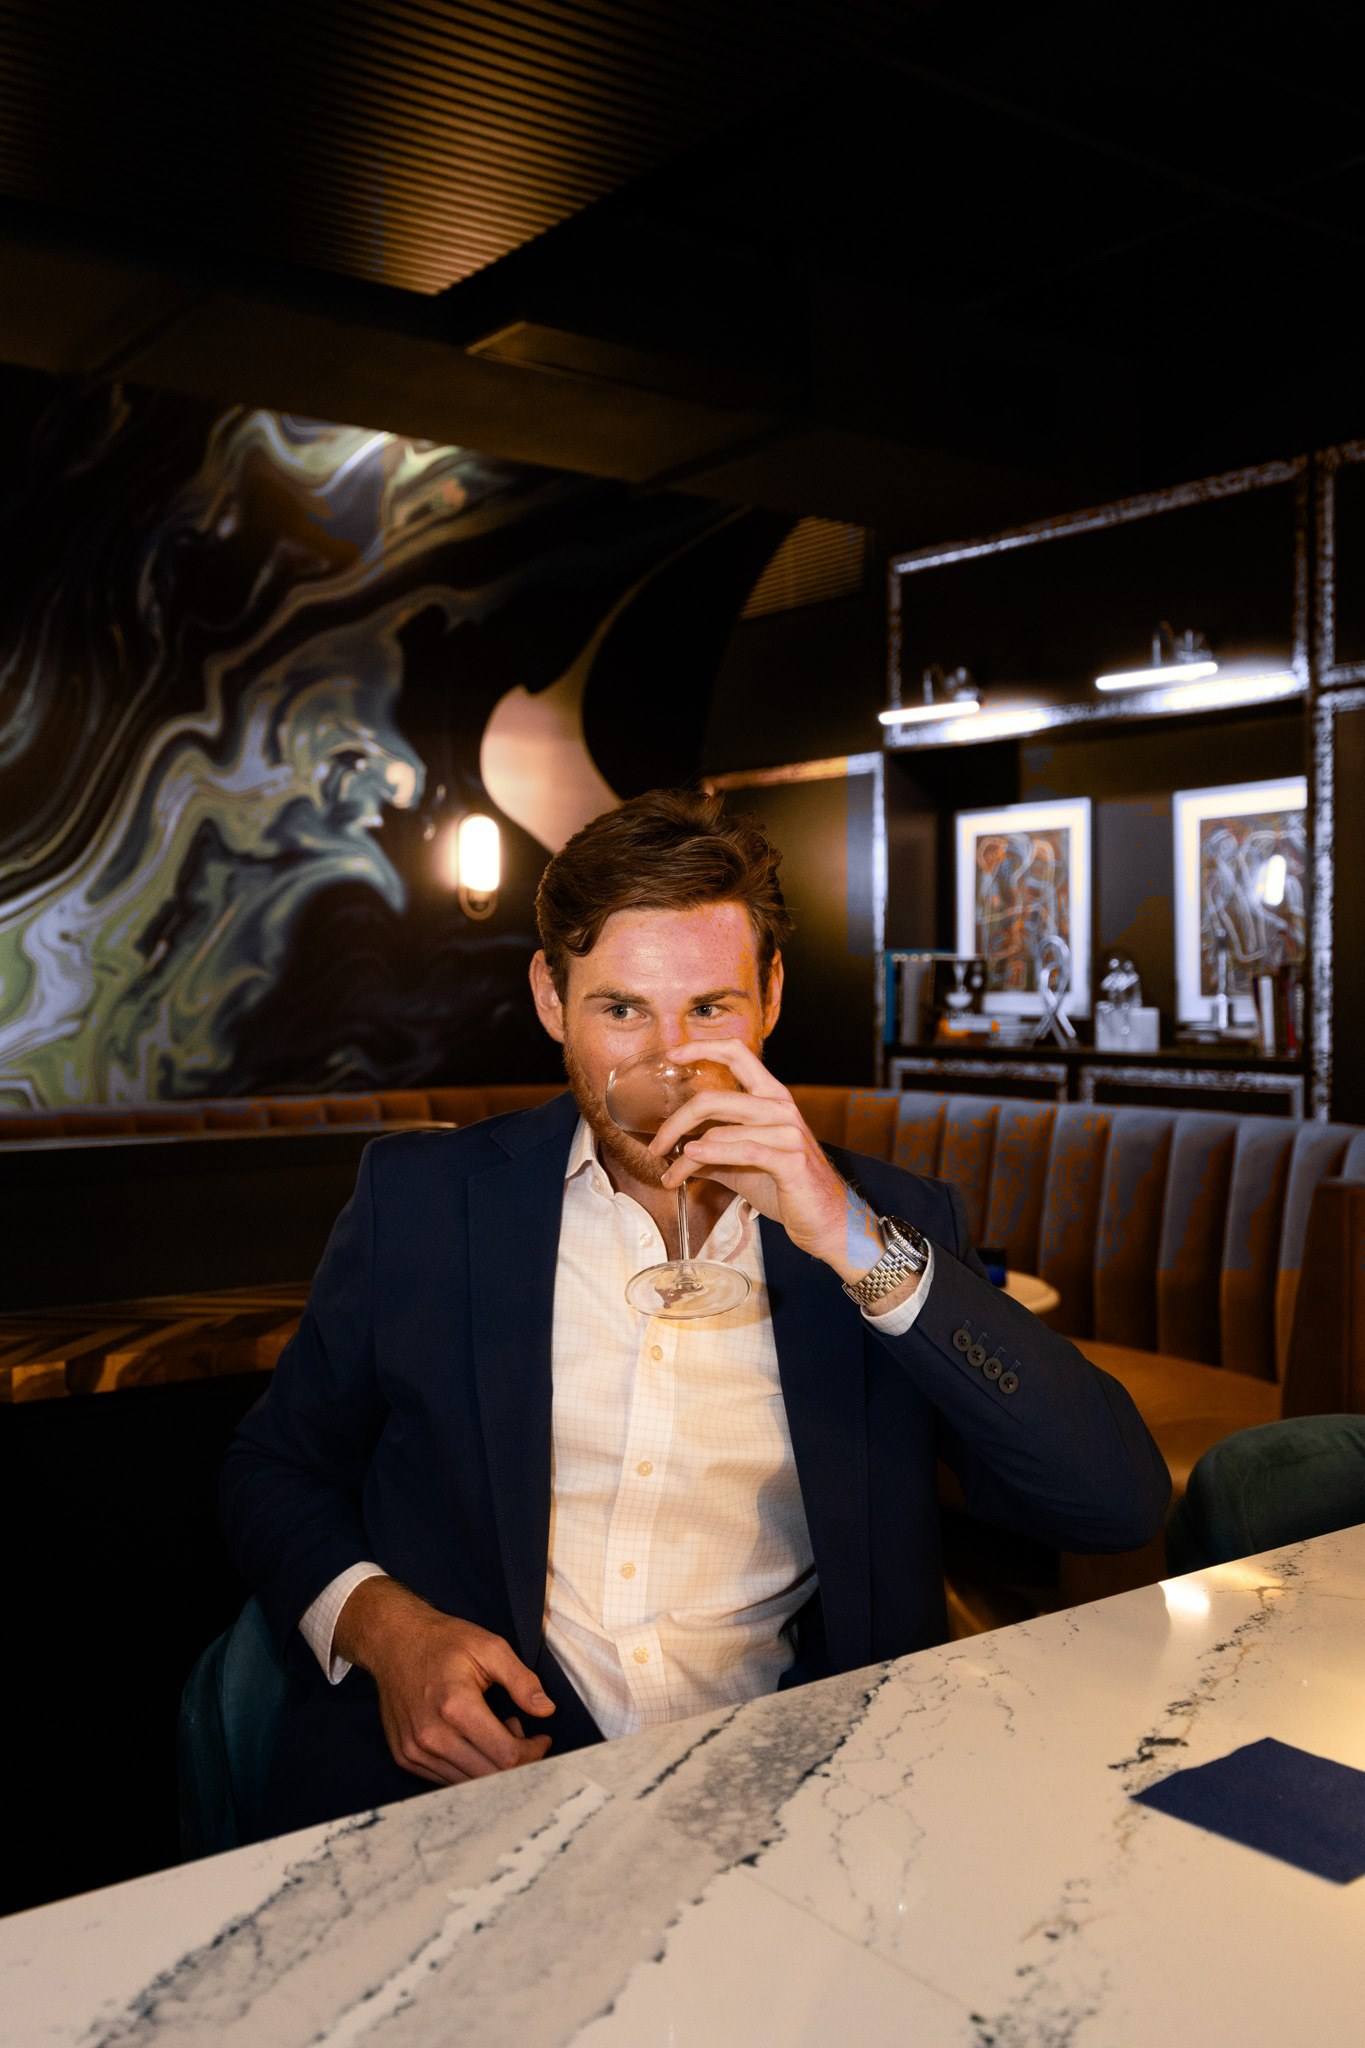
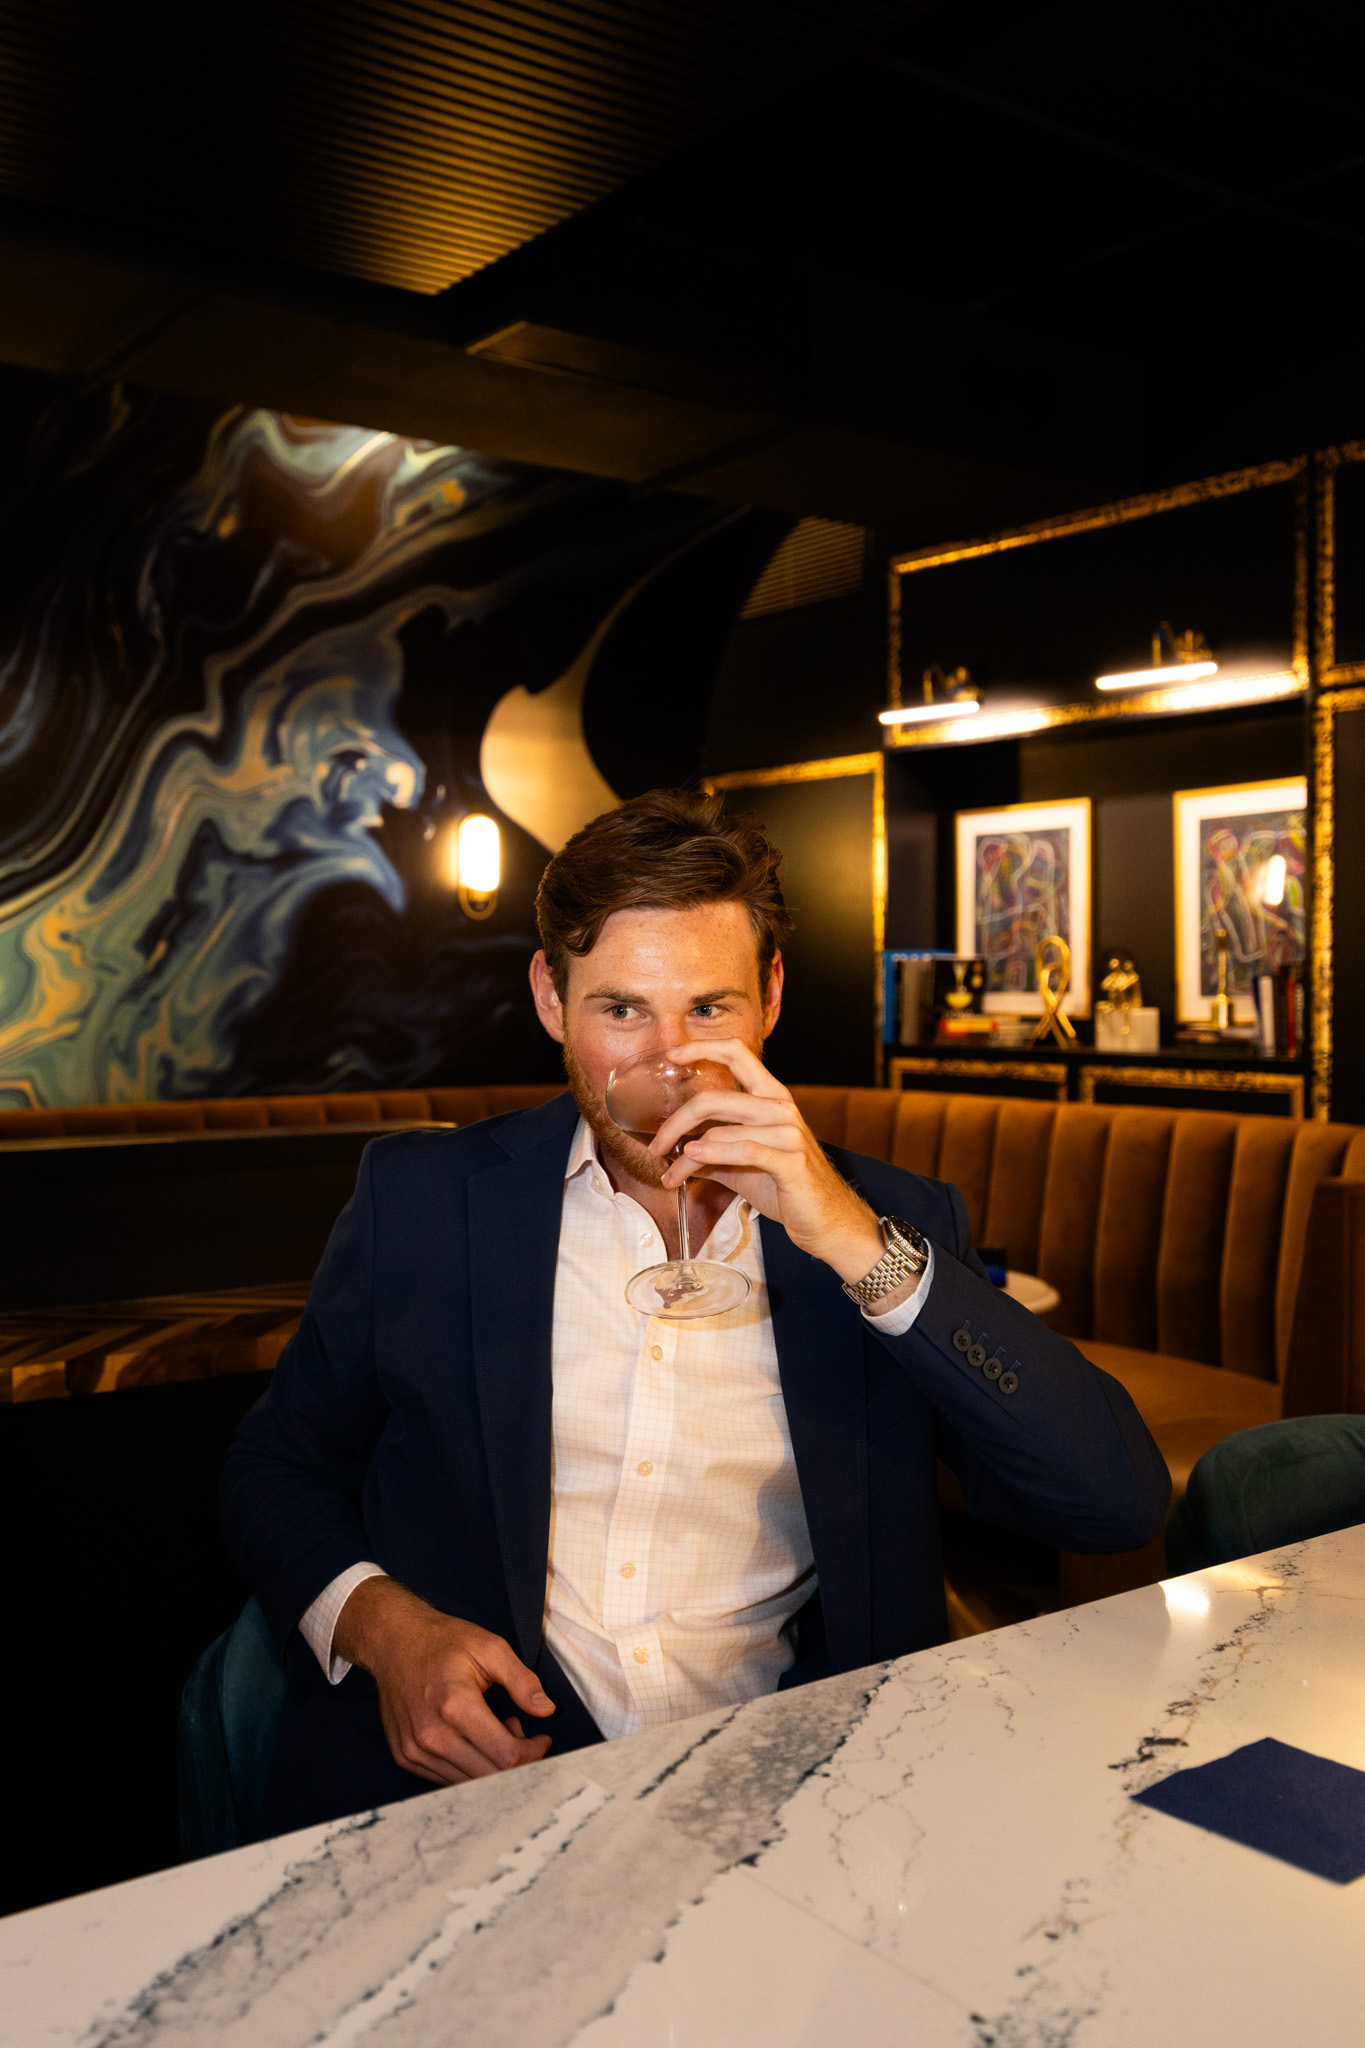
Replace distorted Blue Door photo; point footer Services to Work page

diff --git a/index.html b/index.html
@@ -284,12 +284,12 @@
  <div>
  <h4>Services</h4>
  <ul>
- <li><a href="index.html#service-brand-films">Brand Films</a></li>
- <li><a href="index.html#service-documentary">Documentary</a></li>
- <li><a href="index.html#service-commercial">Commercial</a></li>
- <li><a href="index.html#service-photography">Photography</a></li>
- <li><a href="index.html#service-aerial">Aerial &amp; Drone</a></li>
- <li><a href="index.html#service-post">Post-Production</a></li>
+ <li><a href="work.html#service-brand-films">Brand Films</a></li>
+ <li><a href="work.html#service-documentary">Documentary</a></li>
+ <li><a href="work.html#service-commercial">Commercial</a></li>
+ <li><a href="work.html#service-photography">Photography</a></li>
+ <li><a href="work.html#service-aerial">Aerial &amp; Drone</a></li>
+ <li><a href="work.html#service-post">Post-Production</a></li>
  </ul>
  </div>
  <div>
@@ -307,7 +307,7 @@
  </div>
  </footer>
 
- <script src="js/projects.js?v=18"></script>
+ <script src="js/projects.js?v=4?v=18"></script>
  <script src="js/main.js?v=25"></script>
  <script src="js/clapper.js?v=19" defer></script>
 </body>

diff --git a/work.html b/work.html
@@ -205,12 +205,12 @@
  <div>
  <h4>Services</h4>
  <ul>
- <li><a href="index.html#service-brand-films">Brand Films</a></li>
- <li><a href="index.html#service-documentary">Documentary</a></li>
- <li><a href="index.html#service-commercial">Commercial</a></li>
- <li><a href="index.html#service-photography">Photography</a></li>
- <li><a href="index.html#service-aerial">Aerial &amp; Drone</a></li>
- <li><a href="index.html#service-post">Post-Production</a></li>
+ <li><a href="work.html#service-brand-films">Brand Films</a></li>
+ <li><a href="work.html#service-documentary">Documentary</a></li>
+ <li><a href="work.html#service-commercial">Commercial</a></li>
+ <li><a href="work.html#service-photography">Photography</a></li>
+ <li><a href="work.html#service-aerial">Aerial &amp; Drone</a></li>
+ <li><a href="work.html#service-post">Post-Production</a></li>
  </ul>
  </div>
  <div>
@@ -228,7 +228,7 @@
  </div>
  </footer>
 
- <script src="js/projects.js?v=18"></script>
+ <script src="js/projects.js?v=4?v=18"></script>
  <script src="js/main.js?v=25"></script>
  <script src="js/clapper.js?v=19" defer></script>
 </body>

diff --git a/about.html b/about.html
@@ -130,12 +130,12 @@
  <div>
  <h4>Services</h4>
  <ul>
- <li><a href="index.html#service-brand-films">Brand Films</a></li>
- <li><a href="index.html#service-documentary">Documentary</a></li>
- <li><a href="index.html#service-commercial">Commercial</a></li>
- <li><a href="index.html#service-photography">Photography</a></li>
- <li><a href="index.html#service-aerial">Aerial &amp; Drone</a></li>
- <li><a href="index.html#service-post">Post-Production</a></li>
+ <li><a href="work.html#service-brand-films">Brand Films</a></li>
+ <li><a href="work.html#service-documentary">Documentary</a></li>
+ <li><a href="work.html#service-commercial">Commercial</a></li>
+ <li><a href="work.html#service-photography">Photography</a></li>
+ <li><a href="work.html#service-aerial">Aerial &amp; Drone</a></li>
+ <li><a href="work.html#service-post">Post-Production</a></li>
  </ul>
  </div>
  <div>

diff --git a/contact.html b/contact.html
@@ -148,12 +148,12 @@
  <div>
  <h4>Services</h4>
  <ul>
- <li><a href="index.html#service-brand-films">Brand Films</a></li>
- <li><a href="index.html#service-documentary">Documentary</a></li>
- <li><a href="index.html#service-commercial">Commercial</a></li>
- <li><a href="index.html#service-photography">Photography</a></li>
- <li><a href="index.html#service-aerial">Aerial &amp; Drone</a></li>
- <li><a href="index.html#service-post">Post-Production</a></li>
+ <li><a href="work.html#service-brand-films">Brand Films</a></li>
+ <li><a href="work.html#service-documentary">Documentary</a></li>
+ <li><a href="work.html#service-commercial">Commercial</a></li>
+ <li><a href="work.html#service-photography">Photography</a></li>
+ <li><a href="work.html#service-aerial">Aerial &amp; Drone</a></li>
+ <li><a href="work.html#service-post">Post-Production</a></li>
  </ul>
  </div>
  <div>

diff --git a/js/projects.js b/js/projects.js
@@ -54,7 +54,7 @@ const PROJECTS = [
     year: "2026",
     description: "Lifestyle photography at Blue Door, a Charleston drink and social bar.",
     featured: true,
-    image: "assets/work/bluedoor/bluedoor-1.jpg?v=3"
+    image: "assets/work/bluedoor/bluedoor-1.jpg?v=4"
   },
   {
     id: "groovers-charleston-1",
